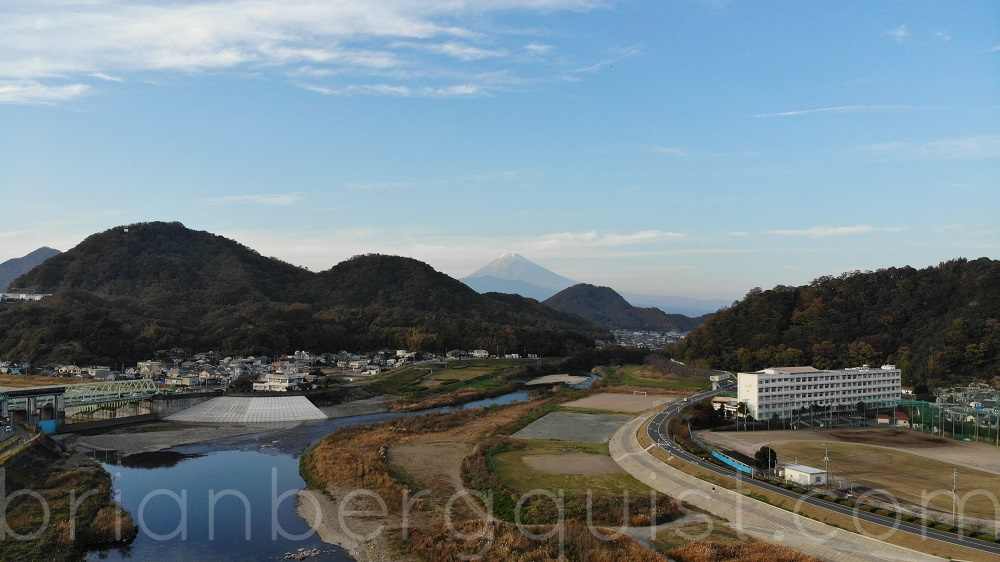
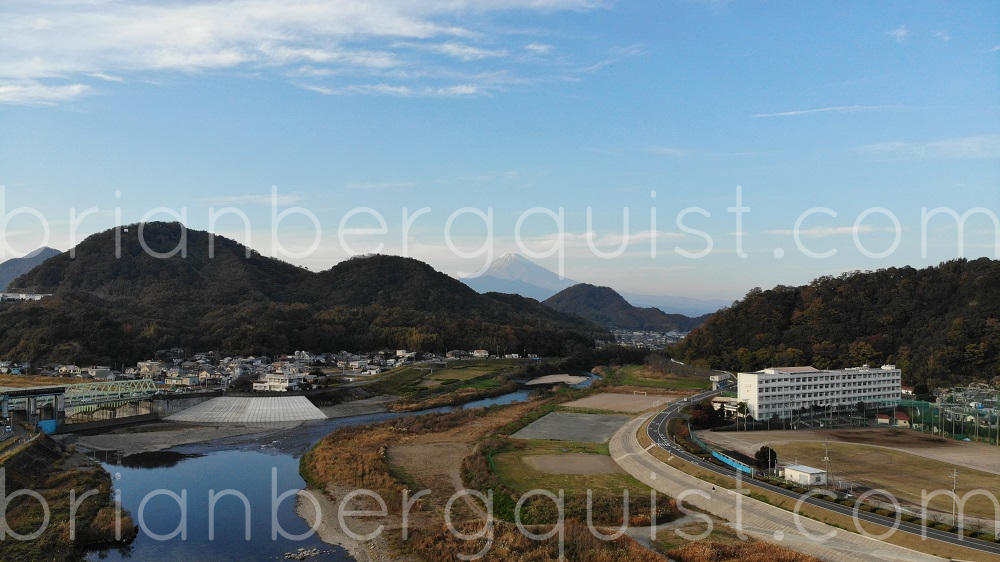
updated pictures
needed to have more watermarks. also aligned formats of all pics

diff --git a/photography.html b/photography.html
@@ -72,14 +72,14 @@
 										<div class="box alt">
 											<div class="row gtr-uniform">
 												<!-- Large Pic 1 -->
-												<div class="col-12"><span class="image fit"><img class="myImages" id="myImg" src="images/photos/izu.JPG" alt="Drone shot of Mt. Fuji taken in Izu Japan."></span></div>
+												<div class="col-12"><span class="image fit"><img class="myImages" id="myImg" src="images/photos/izu.jpg" alt="Drone shot of Mt. Fuji taken in Izu Japan."></span></div>
 												<!-- Pic 2 -->
 												<div class="col-6"><span class="image fit"><img class="myImages" id="myImg" src="images/photos/snow.jpg" alt="View of Futako-Tamagawa after a flurry of snow."></span></div>
-												<div class="col-6"><span class="image fit"><img class="myImages" id="myImg" src="images/photos/whatcom.JPG" alt="Drone shot of Lake Whatcom in Bellingham, WA."</span></div>
-												<div class="col-6"><span class="image fit"><img class="myImages" id="myImg" src="images/photos/bridge.jpg" alt="Picture of a bride to an underwater viewing platform in Okinawa."></span></div>
+												<div class="col-6"><span class="image fit"><img class="myImages" id="myImg" src="images/photos/whatcom.jpg" alt="Drone shot of Lake Whatcom in Bellingham, WA."</span></div>
+												<div class="col-6"><span class="image fit"><img class="myImages" id="myImg" src="images/photos/bridge.jpg" alt="Picture of a bridge to an underwater viewing platform in Okinawa."></span></div>
 												<div class="col-6"><span class="image fit"><img class="myImages" id="myImg" src="images/photos/shibuya.jpg" alt="View from Google Building in Shibuya, Tokyo."</span></div>
-												<div class="col-6"><span class="image fit"><img class="myImages" id="myImg" src="images/photos/izubay.JPG" alt="Photo of Izu bay taken via drone."></span></div>
-												<div class="col-6"><span class="image fit"><img class="myImages" id="myImg" src="images/photos/okinawa.JPG" alt="Birdseye view of a beach in Okinawa."</span></div>
+												<div class="col-6"><span class="image fit"><img class="myImages" id="myImg" src="images/photos/izubay.jpg" alt="Photo of Izu bay taken via drone."></span></div>
+												<div class="col-6"><span class="image fit"><img class="myImages" id="myImg" src="images/photos/okinawa.jpg" alt="Birdseye view of a beach in Okinawa."</span></div>
 												<div id="myModal" class="modal">
 												  <span class="close">&times;</span>
 												  <img class="modal-content" id="img01">

diff --git a/assets/css/main.css b/assets/css/main.css
@@ -4203,7 +4203,7 @@ input, select, textarea {
   margin: auto;
   display: block;
   width: 80%;
-  max-width: 700px;
+  max-width: 100%;
   text-align: center;
   color: #ccc;
   padding: 10px 0;
@@ -4227,7 +4227,7 @@ input, select, textarea {
 
 .close {
   position: absolute;
-  top: 0px;
+  top: 35px;
   right: 35px;
   color: #f1f1f1;
   font-size: 40px;
